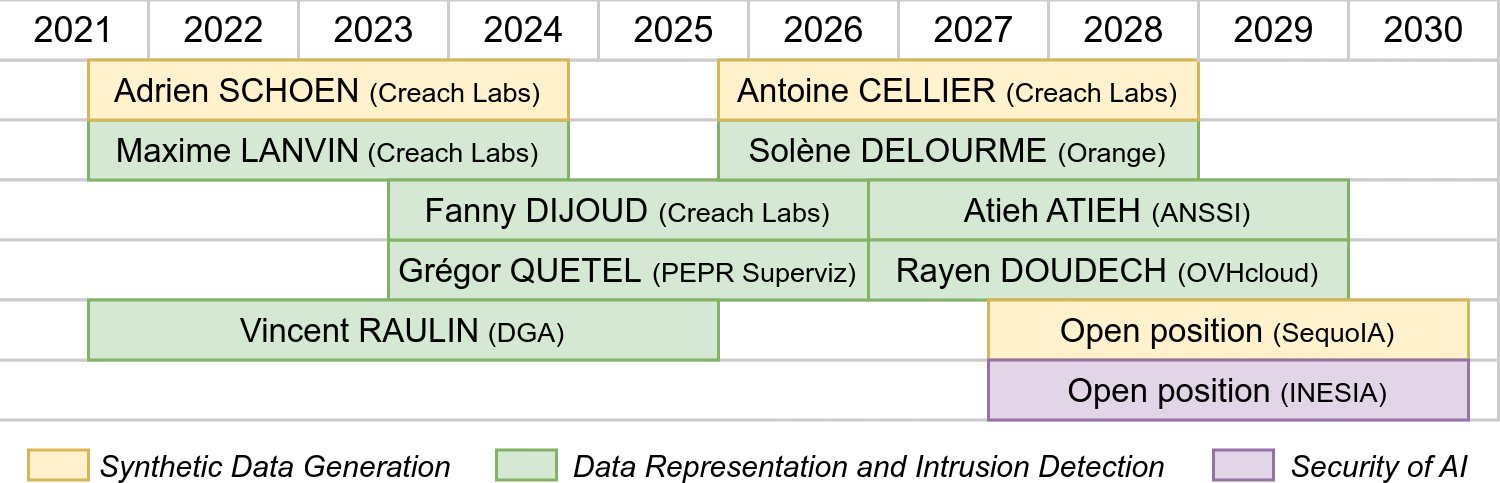
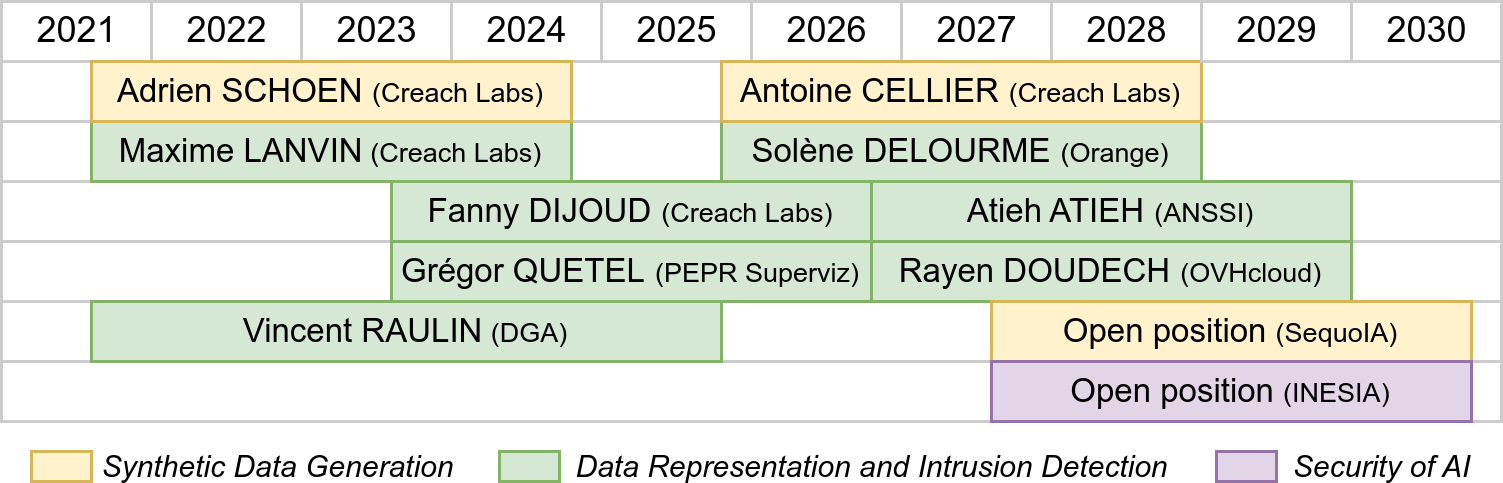
Update

Changed region(s): [[0.0, 0.0, 1.0, 1.0]]

diff --git a/_pages/about.md b/_pages/about.md
@@ -13,6 +13,8 @@ I am a research scientist at [Inria](https://www.inria.fr/) (Rennes, France) in 
 - by proposing new representations of cybersecurity data (network communications, malware dynamic analysis, etc.)
 - by devising new techniques of synthetic network traffic generation based on explainable AI and data mining
 
+Open positions: in Septembre 2026, two new internship positions will open. Check this page soon :)
+
 <h1 id="important">To apply for an internship or a PhD, tell me how well you would fit into my future project, "LLM-Watermark", which focuses on using LLM watermarking for cybersecurity purposes. Otherwise, your application will not be considered.</h1>
 
 # PhD students supervision
